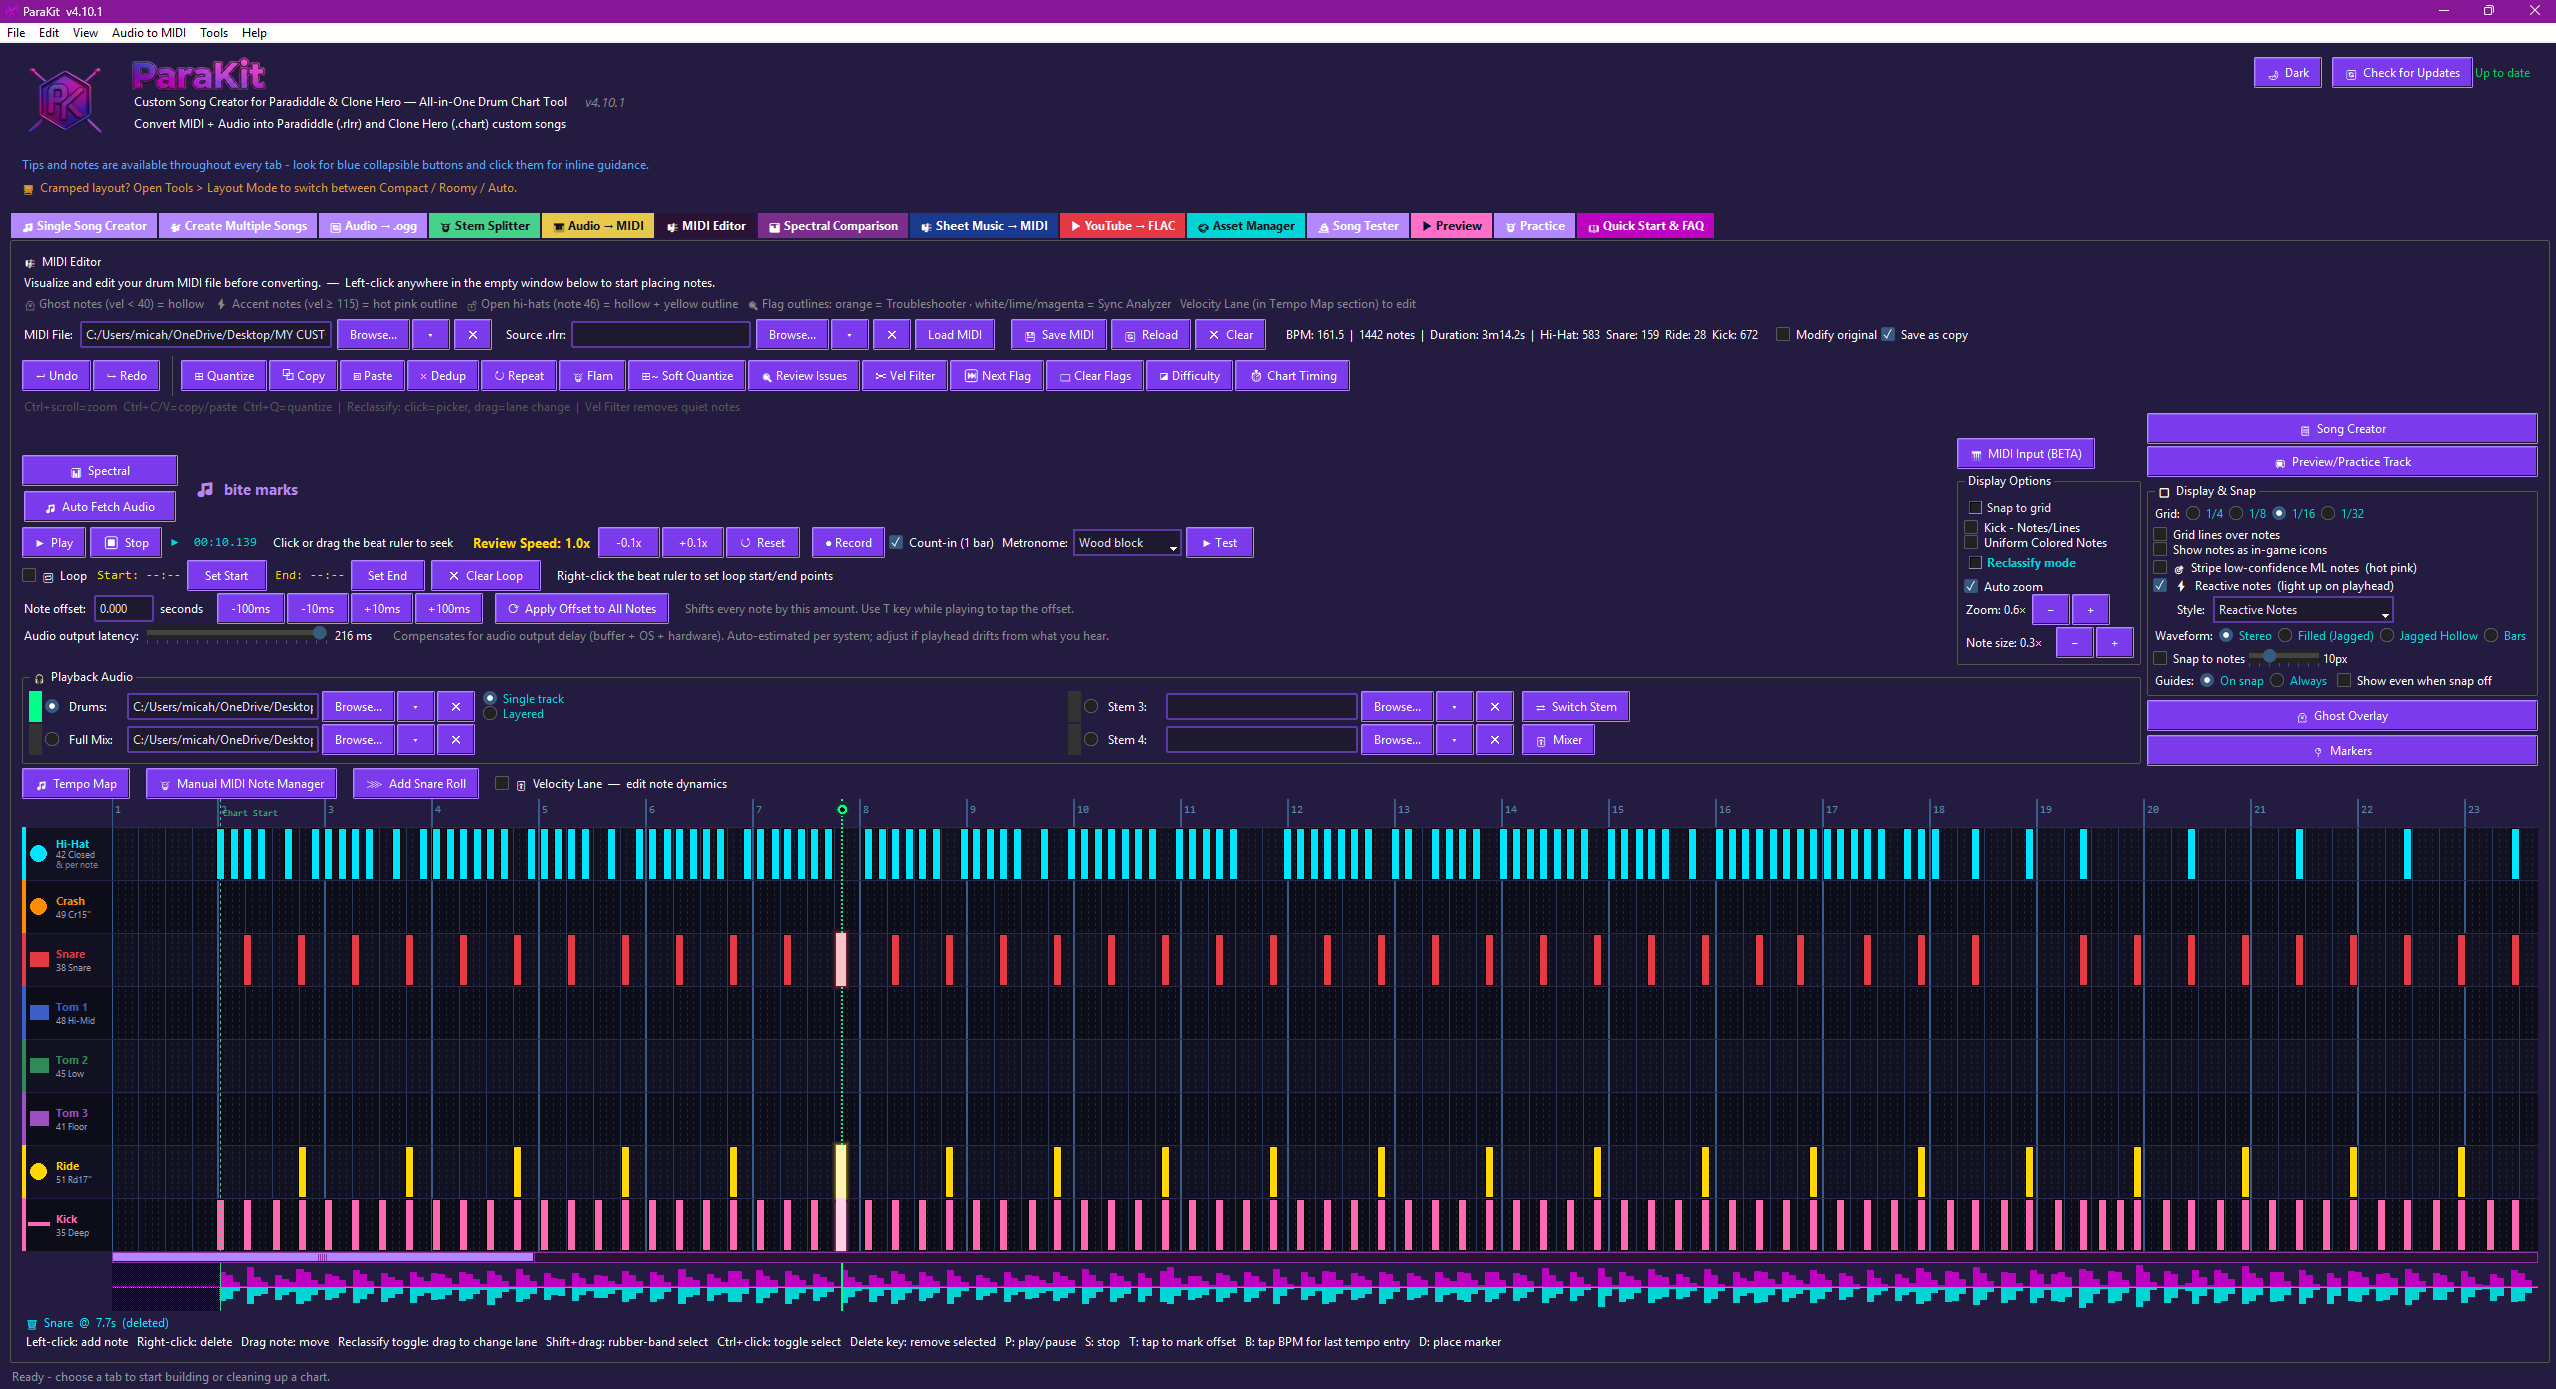
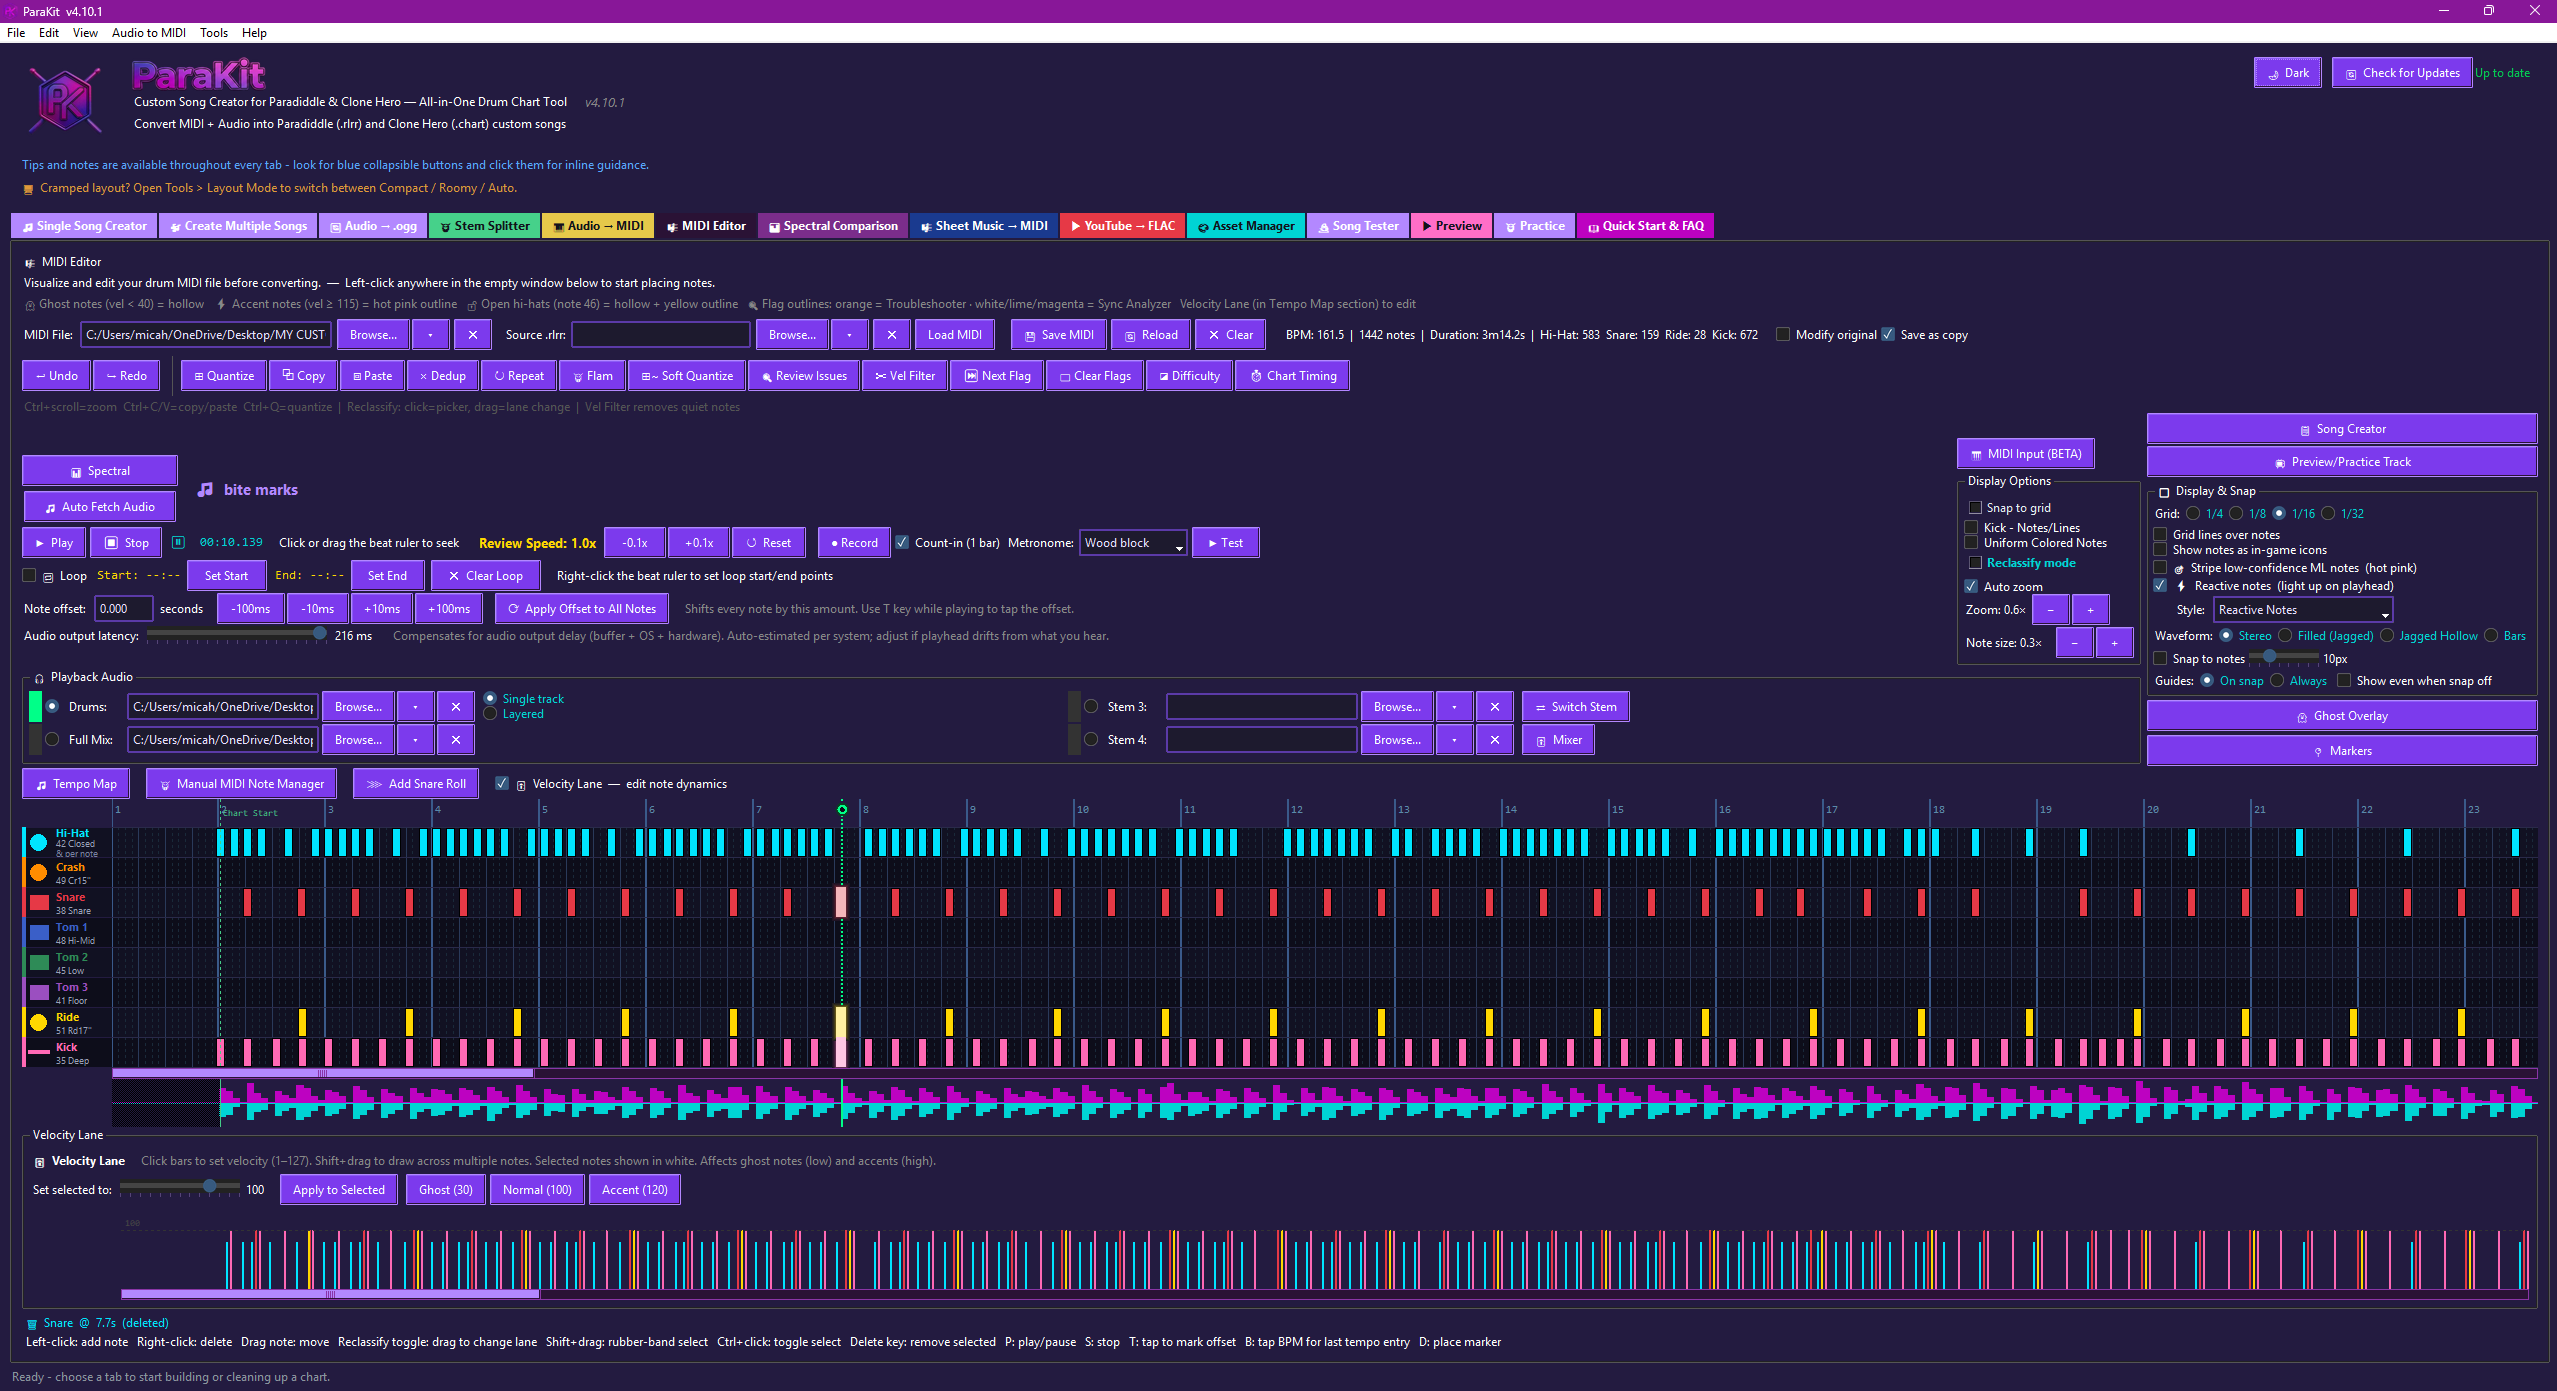
MIDI Editor screenshot: the take with the Velocity Lane open
Same 4.10.1 toolbar, plus the Velocity Lane panel shipped in 4.9.x that no
prior screenshot showed. Fresh cache-bust so the image proxy re-fetches.

diff --git a/README.md b/README.md
@@ -171,7 +171,7 @@ Spectral Comparison — a third view, and a spectrogram that keeps its detail
 
 MIDI Editor — sharper chart, note selection, reactive notes and new toolbar buttons
 
-<img src="screenshots/app-06-midi-editor.png?v=20260821" width="900" alt="MIDI Editor — reactive notes, seconds on the ruler, Difficulty and MIDI Input buttons">
+<img src="screenshots/app-06-midi-editor.png?v=20260821b" width="900" alt="MIDI Editor — chart with the Velocity Lane open; Chart Timing, Difficulty and Add Snare Roll on the toolbar">
 
 + **Reactive Notes, rebuilt.** Notes used to blank solid white as the playhead crossed them, so you lost track of which drum it was at the moment it mattered. A note now flares to a brighter version of its **own lane color** and throws a soft halo that fades out behind it. The original flash is still there as **Flash Notes (Classic Style)** in the new Style dropdown — and as of this release both the toggle and the style are remembered between launches.
 + **Sharper chart sprites.** Notes are drawn as a single clean high-resolution ring instead of the old softer shape, flagged notes get thinner and tidier outlines, and the toolbar buttons wear the v5 outline style. The dot at the top of the green playhead is now an enlarged grab-handle, so it is obvious where to click to drag it.
@@ -414,7 +414,7 @@ How closely do ParaKit's converted charts agree with charts people made by hand?
 <img src="screenshots/app-05-audio-to-midi.png?v=20260821" width="900" alt="Audio to MIDI">
 
 ### 6 · MIDI Editor
-<img src="screenshots/app-06-midi-editor.png?v=20260821" width="900" alt="MIDI Editor">
+<img src="screenshots/app-06-midi-editor.png?v=20260821b" width="900" alt="MIDI Editor">
 
 ### 7 · Spectral Comparison
 Did the detector chart it right? The chart is overlaid on the audio's energy and the disagreements are
